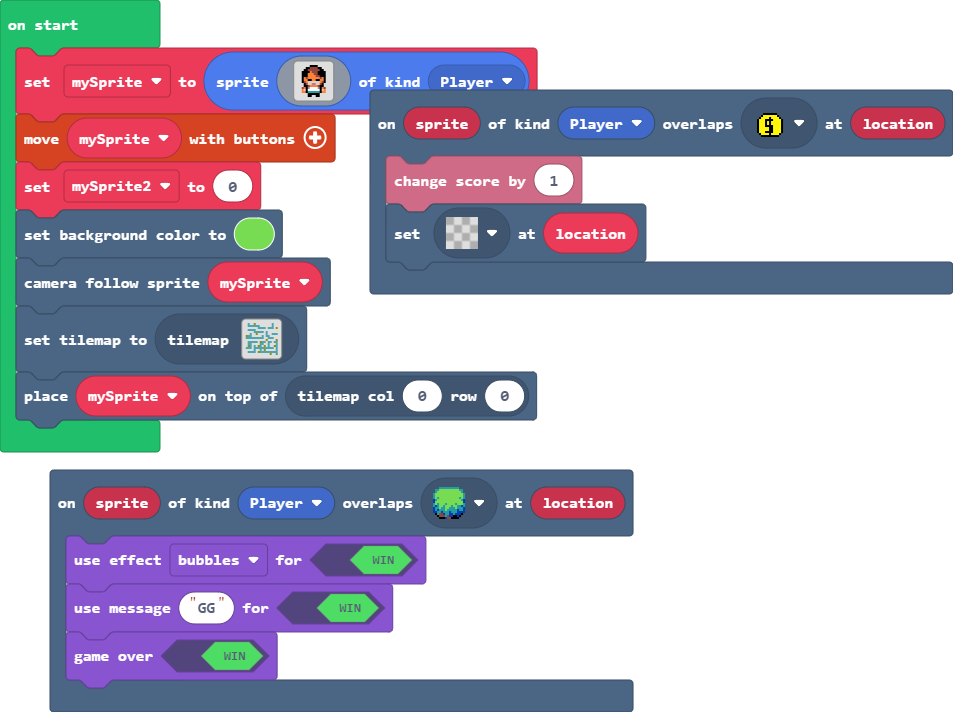
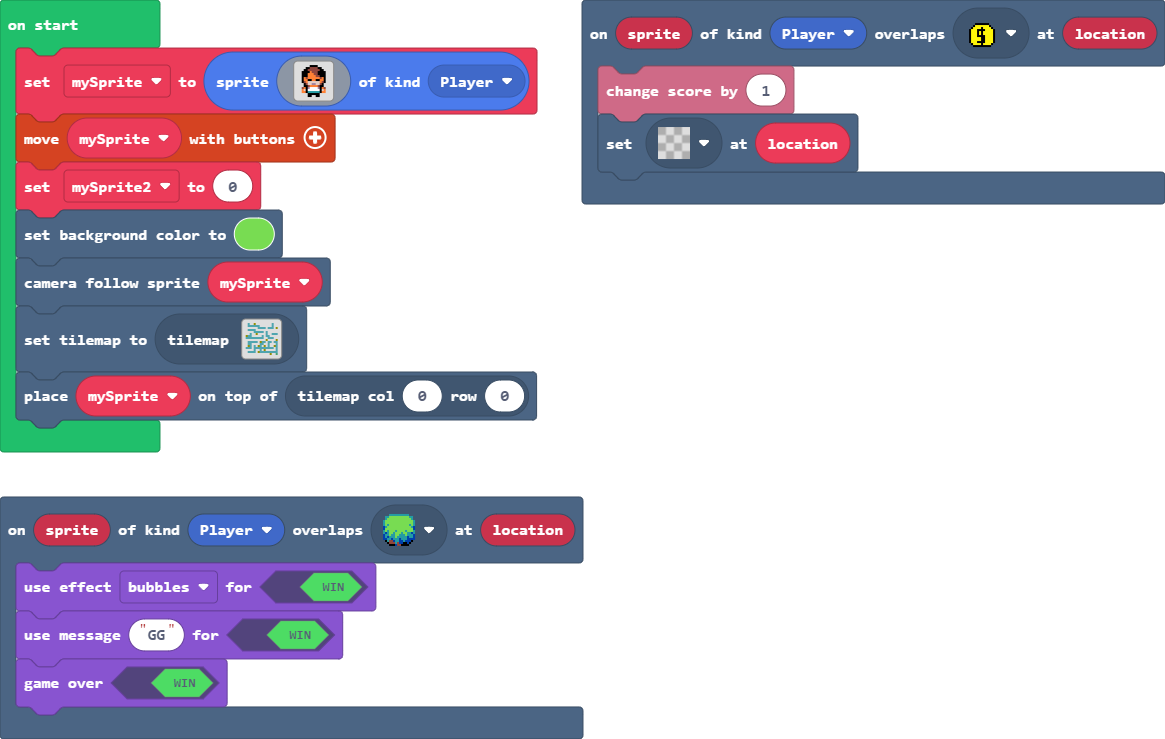
removed key and chest

diff --git a/tilemap.g.ts b/tilemap.g.ts
@@ -127,6 +127,25 @@ namespace myTiles {
 . . . . . . . . . . . . . . . . 
 . . . . . . . . . . . . . . . . 
 `, [myTiles.transparency16], TileScale.Sixteen);
+            case "level7":
+            case "level7":return tiles.createTilemap(hex`1000100000000000000000000000000000000000000000000000000000000000000000000000000000000000000000000000000000000000000000000000000000000000000000000000000000000000000000000000000000000000000000000000000000000000000000000000000000000000000000000000000000000000000000000000000000000000000000000000000000000000000000000000000000000000000000000000000000000000000000000000000000000000000000000000000000000000000000000000000000000000000000000000000000000000000000000000000000000000000000000000000000000000000000000000000000000000`, img`
+. . . . . . . . . . . . . . . . 
+. . . . . . . . . . . . . . . . 
+. . . . . . . . . . . . . . . . 
+. . . . . . . . . . . . . . . . 
+. . . . . . . . . . . . . . . . 
+. . . . . . . . . . . . . . . . 
+. . . . . . . . . . . . . . . . 
+. . . . . . . . . . . . . . . . 
+. . . . . . . . . . . . . . . . 
+. . . . . . . . . . . . . . . . 
+. . . . . . . . . . . . . . . . 
+. . . . . . . . . . . . . . . . 
+. . . . . . . . . . . . . . . . 
+. . . . . . . . . . . . . . . . 
+. . . . . . . . . . . . . . . . 
+. . . . . . . . . . . . . . . . 
+`, [myTiles.transparency16], TileScale.Sixteen);
         }
         return null;
     })
